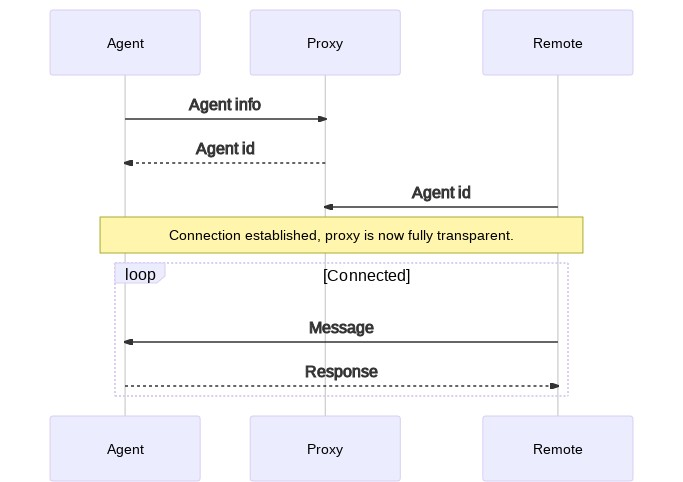
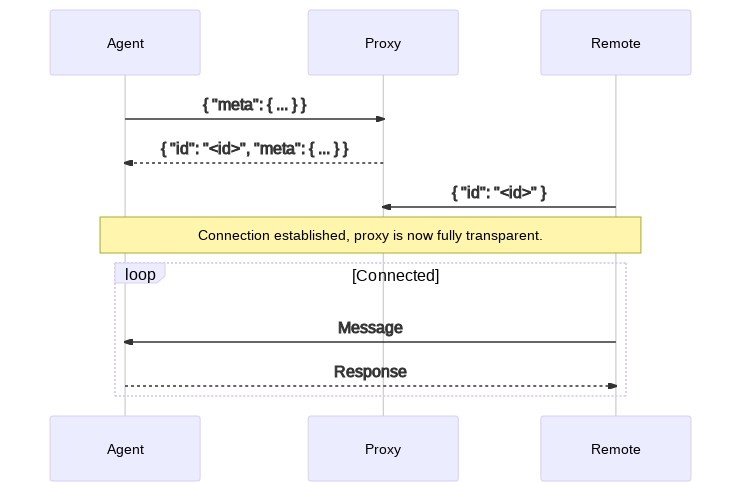
Agent reply with entire json, update readme

diff --git a/proxy.go b/proxy.go
@@ -60,9 +60,15 @@ func newProxy(basePath string) *proxy {
 		p.agents[newAgent.Id] = newAgent
 		p.agentsByPublicIp[newClient.remoteIp] = append(p.agentsByPublicIp[newClient.remoteIp], newAgent)
 
-		// TODO: check for and remove on error.
+		reply, err := json.Marshal(newAgent)
+		if err != nil {
+			log.Println("Could not marshal agent response:", err)
+			newClient.close()
+			return
+		}
 
-		newClient.conn.WriteMessage(websocket.TextMessage, []byte(newAgent.Id))
+		// TODO: check for and remove on error.
+		newClient.conn.WriteMessage(websocket.TextMessage, reply)
 	}
 
 	p.remoteServer.onClientConnected = func(remote *websocketClient) {

diff --git a/README.md b/README.md
@@ -20,22 +20,40 @@ The websocket endpoints for the agent and remote clients, respectively.
 
 ## Websocket Protocol
 
-When connecting to the proxy, the first message contains metadata about the agent or remote. For the agent this is a JSON object with the following properties:
+### Agent
 
-| Property   | Description |
-|------------|-------------|
-| `version`  | The version of the agent.
-| `address`  | The local address (IP and port) at which the agent is running.
-| `platform` | The platform the agent is running on, e.g. `windows`, `linux` or `mac`.
-| `hostname` | The name of the host the agent is running on.
+After connecting, the agent should send a message with a JSON object. This object can contain a `meta` field with freeform metadata about the agent. For example:
 
-The proxy will then assign a unique id to this agent, which remotes can use to identify it. It will also send a message containing this id to the agent.
+```json
+{
+  "meta": {
+    "version": "1.0.0",
+    "platform": "linux"
+  }
+}
+```
 
-For the remote this is a JSON object with the following properties:
+The proxy will then assign a unique id to this agent, which remotes can use to identify it. It will send the full agent object back to the agent:
 
-| Property | Description |
-|----------|-------------|
-| `id`     | The id of the client to connect to.
+```json
+{
+  "id": "4cab7bec-dfc2-48a9-a8c9-406118b4242f",
+  "meta": {
+    "version": "1.0.0",
+    "platform": "linux"
+  }
+}
+```
+
+### Remote
+
+After connecting, the agent should send a message with a JSON object. This object should contain an `id` field with the id of the agent to connect to. For example:
+
+```json
+{
+  "id": "4cab7bec-dfc2-48a9-a8c9-406118b4242f"
+}
+```
 
 ### Diagram
 

diff --git a/docs/diagram.md b/docs/diagram.md
@@ -7,11 +7,11 @@ sequenceDiagram
     participant Remote
 
     %% Register the agent.
-    Agent->>Proxy: Agent info
-    Proxy-->>Agent: Agent id
+    Agent->>Proxy: { "meta": { ... } }
+    Proxy-->>Agent: { "id": "<id>", "meta": { ... } }
 
     %% Connect to an agent.
-    Remote->>Proxy: Agent id
+    Remote->>Proxy: { "id": "<id>" }
 
     Note over Agent,Remote: Connection established, proxy is now fully transparent.
 
